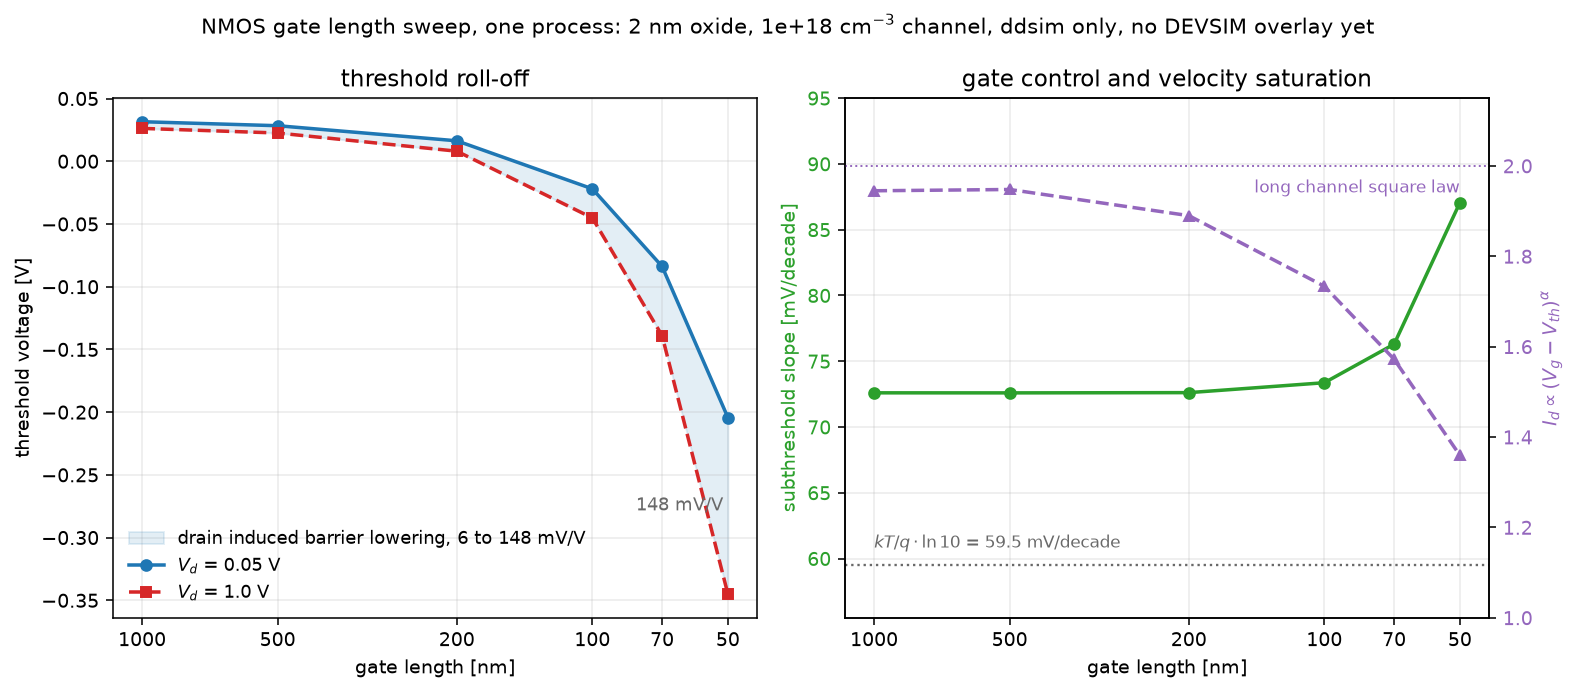
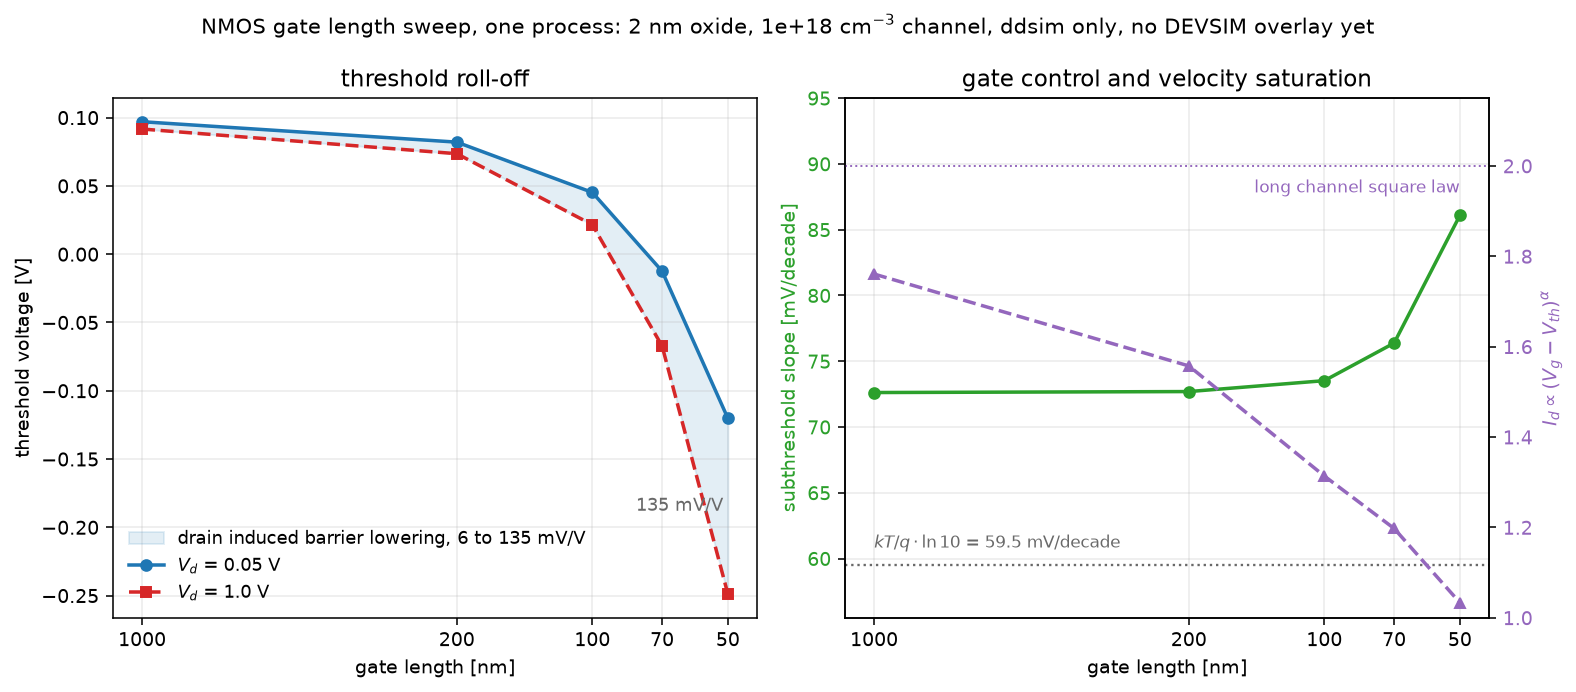
run the sweep on the mobility the phase actually asks for
I caught this by attacking my own conclusion, not by a test failing.
TransportModels.for_device defaults to the phase 2 constant mobility with
no field dependence and no surface term, gate_sweep inherits those, and I
never passed anything else. So the saturation exponent I was about to
publish as velocity saturation had been measured on a model that contains
no velocity saturation at all. Peak transconductance at 1 um was wrong by a
factor of 12.

gate_length_sweep builds its own models now and defaults to Arora inside
Lombardi inside Caughey-Thomas, which are scope items 3 and 4 of the phase.

And the exponent is attributed instead of inferred. It falls for several
reasons that all travel with gate length, so the same device is solved
twice at one bias with only Caughey-Thomas switched: 2.9 percent of current
at 1 um, 44.8 percent at 50 nm. Most of the fall from 2 is geometry, and
the README says so rather than crediting all of it to velocity saturation.

Sweep is five lengths now, on a grid fine through subthreshold and coarse
above it. Vth falls 217 mV, DIBL opens 5.6 to 135.5 mV/V, the slope lifts
72.6 to 86.1, the exponent drops 1.761 to 1.033.

diff --git a/tests/analytic/test_mosfet_rolloff_plot.py b/tests/analytic/test_mosfet_rolloff_plot.py
@@ -24,6 +24,13 @@ the 59.5 mV/decade thermal limit, which nothing thermally activated can beat at
 The first rises off its limit as the gate loses control of the barrier; the
 second falls toward 1 as carriers stop going faster when the field is raised.
 
+The models are the full Phase 5 stack: Arora doping dependent mobility inside
+Lombardi surface scattering inside Caughey-Thomas, with Fermi-Dirac statistics.
+Two of those are named in the scope of phases/PHASE-5.md as not optional, and
+the third is what the exponent is measuring, so a sweep taken on the Phase 2
+constant mobility would be measuring something else and reporting it under this
+title.
+
 DEVSIM is not on this figure yet
 --------------------------------
 phases/PHASE-5.md asks for the sweep overlaid on DEVSIM, and benchmark 9 of
@@ -58,14 +65,17 @@ from ddsim.extract.rolloff import (  # noqa: E402
 
 OUTPUT = pathlib.Path(__file__).parents[2] / "docs" / "images"
 
-GATE_LENGTHS = [1e-4, 5e-5, 2e-5, 1e-5, 7e-6, 5e-6]
+GATE_LENGTHS = [1e-4, 2e-5, 1e-5, 7e-6, 5e-6]
 """1 um down to 50 nm [cm]. The bottom is where drift-diffusion stops meaning
 anything, not where the solver stops converging."""
 
-GATE_VOLTAGES = list(np.round(np.arange(-0.5, 1.401, 0.05), 4))
-"""0.05 V throughout: the subthreshold window is two decades of current, which
-at 70 mV/decade is 140 mV wide, and the exponent is fit over 600 mV of
-overdrive at the far end."""
+GATE_VOLTAGES = list(np.round(np.arange(-0.5, 0.151, 0.05), 4)) + list(
+    np.round(np.arange(0.2, 1.401, 0.1), 4)
+)
+"""Fine through subthreshold, coarse above it. The slope is read over two
+decades of current, which at 70 mV/decade is 140 mV wide and needs 0.05 V
+steps to hold more than one point. Above threshold the curve is a power law
+and 0.1 V resolves it, and every point is a coupled 2D solve."""
 
 DRAIN_LOW = 0.05
 DRAIN_HIGH = 1.0
@@ -157,17 +167,25 @@ def test_drain_induced_barrier_lowering_widens_the_gap(sweep):
 
 def test_velocity_saturation_pulls_the_exponent_off_the_square_law(sweep):
     """Id goes as overdrive squared while the inversion charge and the
-    velocity both rise with it. Once the channel field passes the critical
-    field the velocity stops rising, one factor drops out, and the exponent
-    falls toward 1."""
+    velocity that carries it both rise with the gate. Once the channel field
+    passes the critical field the velocity stops rising, one factor drops out,
+    and the exponent falls toward 1.
+
+    It is already below 2 at 1 um, because 1 V across a 1 um channel is around
+    the critical field for electrons in silicon on its own, so this sweep never
+    contains a device that is purely square law.
+    """
     exponents = [point.saturation_exponent for point in sweep]
 
     assert exponents[0] <= SQUARE_LAW
-    assert exponents[-1] < 1.5
+    assert exponents[-1] < 1.2
     assert exponents[-1] > 1.0
+    # What the fall is made of is measured separately, in
+    # tests/analytic/test_mosfet_rolloff.py, because the exponent alone cannot
+    # tell velocity saturation from the geometry it travels with.
     # End to end, and monotone within a hundredth, for the same reason the
-    # subthreshold slope is asserted that way: 1 um and 500 nm are the same
-    # long channel device to three figures and ordering them is ordering noise.
+    # subthreshold slope is asserted that way: the long devices differ from
+    # each other by less than the extraction resolves.
     assert np.all(np.diff(exponents) < 0.01)
 
 

diff --git a/tests/analytic/test_mosfet_rolloff.py b/tests/analytic/test_mosfet_rolloff.py
@@ -26,6 +26,9 @@ from __future__ import annotations
 import numpy as np
 import pytest
 
+from ddsim.device.mosfet import DRAIN, nmos
+from ddsim.device.transport import TransportModels, solve_bias_newton
+from ddsim.extract.iv import terminal_currents
 from ddsim.extract.rolloff import (
     SHORT_CHANNEL_PROCESS,
     gate_length_sweep,
@@ -145,6 +148,61 @@ def test_the_short_device_drives_more_current(sweep):
     assert short_channel.peak_transconductance > (
         long_channel.peak_transconductance
     )
+
+
+# --------------------------------------------- attributing the exponent
+
+
+def drain_current(L_gate: float, field_dependent: bool) -> float:
+    """Id at one strong inversion bias [A/cm], ramped up to from off.
+
+    Everything except `field_dependent` is identical between the two calls, so
+    the ratio of the two answers is what Caughey-Thomas did and nothing else.
+    Lombardi is left off in both, because the question here is what the lateral
+    field model does and the surface model is a second thing moving.
+    """
+    models = TransportModels.for_device(
+        nmos(L_gate=L_gate, **SHORT_CHANNEL_PROCESS),
+        mobility="arora",
+        field_dependent=field_dependent,
+    )
+    state = None
+    for gate in (0.0, 0.4, 0.8, 1.2):
+        device = nmos(
+            L_gate=L_gate,
+            gate_voltage=gate,
+            drain_voltage=1.0,
+            **SHORT_CHANNEL_PROCESS,
+        )
+        state = solve_bias_newton(device, models=models, guess=state)
+        assert state.newton is not None and state.newton.converged
+
+    return float(terminal_currents(device, state)[DRAIN])
+
+
+def test_velocity_saturation_is_what_holds_the_short_device_back():
+    """The exponent alone cannot say why it fell, so this says it.
+
+    A falling saturation exponent is consistent with several things that
+    travel together as the gate shortens: two dimensional field effects, the
+    series resistance of the source and drain, and the threshold reference
+    moving. So instead of reading the exponent, the same device is solved twice
+    with only Caughey-Thomas switched, at one strong inversion bias.
+
+    At 1 um the two answers agree to a few percent, because 1 V spread over a
+    micron of channel is around the critical field and no further. At 50 nm the
+    same switch changes the current by more than half, because 1 V over 50 nm
+    is twenty times that field and the carriers stopped speeding up long
+    before it. Same equations, same doping, same bias: only the lateral field
+    model moved.
+    """
+    long_free = drain_current(1e-4, field_dependent=False)
+    long_saturated = drain_current(1e-4, field_dependent=True)
+    short_free = drain_current(5e-6, field_dependent=False)
+    short_saturated = drain_current(5e-6, field_dependent=True)
+
+    assert long_saturated == pytest.approx(long_free, rel=0.05)
+    assert short_saturated < 0.75 * short_free
 
 
 # ------------------------------------------------------------------ refusals

diff --git a/ddsim/extract/rolloff.py b/ddsim/extract/rolloff.py
@@ -52,6 +52,7 @@ import numpy as np
 import numpy.typing as npt
 
 from ddsim.device.mosfet import nmos
+from ddsim.device.transport import TransportModels
 from ddsim.extract.iv import IVCurve, gate_sweep
 from ddsim.extract.params import (
     dibl,
@@ -198,6 +199,9 @@ def gate_length_sweep(
     reference_current: float = REFERENCE_CURRENT,
     overdrive_window: tuple[float, float] = (0.4, 1.0),
     slope_decades: float = 2.0,
+    mobility: str = "arora",
+    field_dependent: bool = True,
+    surface: bool = True,
     step: float = 0.05,
 ) -> tuple[RollOffPoint, ...]:
     """Build one MOSFET per gate length and extract the short channel set.
@@ -227,7 +231,19 @@ def gate_length_sweep(
             is wide enough to hold several gate steps and low enough to stay
             clear of the knee, and high enough above the junction leakage floor
             that the floor cannot enter the fit.
+        mobility: low field mobility model, "arora" or "constant".
+        field_dependent: wrap it in Caughey-Thomas. This is the velocity
+            saturation, and with it off the saturation exponent is measuring
+            something else.
+        surface: add Lombardi scattering off the Si/SiO2 interface. Without it
+            the inversion layer mobility is too high by two to three times and
+            the drain current is wrong by the same factor.
         step: first continuation step between gate biases [V].
+
+    The three model arguments default to the full Phase 5 stack rather than to
+    `TransportModels.for_device`'s own defaults, which are the Phase 2 constant
+    mobility. Every one of them is named in the scope of phases/PHASE-5.md and
+    a sweep taken without them is not the sweep the phase asks for.
 
     Returns one `RollOffPoint` per gate length, in the order requested.
 
@@ -250,8 +266,18 @@ def gate_length_sweep(
         curves = {}
         for label, drain in (("linear", drain_low), ("saturated", drain_high)):
             device = nmos(L_gate=L_gate, drain_voltage=drain, **settings)
+            # Rebuilt per device: doping dependent mobility is an array over
+            # that device's edges, and the meshes differ between gate lengths.
             curves[label] = gate_sweep(
-                device, voltages=list(gate_voltages), step=step
+                device,
+                voltages=list(gate_voltages),
+                models=TransportModels.for_device(
+                    device,
+                    mobility=mobility,
+                    field_dependent=field_dependent,
+                    surface=surface,
+                ),
+                step=step,
             )
 
         V_lin, J_lin = usable_span(

diff --git a/docs/07-decisions.md b/docs/07-decisions.md
@@ -102,11 +102,13 @@ these; add a new entry instead.
 | 2026-09-09 | test_the_off_state_current_is_left_alone was replaced by a depth profile, because it was reading a current below its own Kirchhoff residual | It compared the two surface mobility transfer curves at zero gate bias and asked them to agree to 2 percent. On that mesh the drain current there is 5e-8 while the sum of the terminal currents, which Kirchhoff says is zero, is 3e-8: the quantity is a cancellation between fluxes ten decades larger and carries no information. It agreed to 0.8 percent under Boltzmann and to 59 percent under Fermi-Dirac, and neither number was about mobility. The claim it wanted, that the correction is a surface term and not a constant knocked down everywhere, is now read off the mobility itself: 0.37 of bulk on the interface row, inside a percent of bulk a third of the way into the substrate, exactly 1 in the oxide |
 | 2026-09-09 | The residual a coupled solve tests for convergence is measured row by row, and the preconditioner that divides the system stays one number per family | These were the same number until now and they cannot be. A residual is a difference of terms, so the terms of its own row are the only thing it can be resolved against, and on a 1e17 / 1e20 junction the electron flux terms span 11.5 decades between the two sides: measured against one number for the family, every row in the lightly doped side is divided by something set on the degenerate side and lands below any threshold whatever it says. Measured: a cold solve_bias_newton at 0.4 V returned converged after zero Newton steps, still sitting on the equilibrium guess, reporting 1.2208e-10 of current against the 7.3648e-4 the Gummel path gives on the same device. 6.8 decades, with no failure reported, and the residual it reported at that guess was 5.1e-12. Under the per row measure the same guess reads 9.7e-1 and the converged answer reads 7.1e-15, reached in three steps rather than zero. The preconditioner cannot follow it there: a row of dF_n/dn holds conductances of size D*face/h while its residual holds D*face/h*n, so dividing the Jacobian by the per row residual scale leaves entries of size 1/n and hands the factorization a worse conditioned matrix. Not a different step, because a diagonal left preconditioner does not change the exact solution of J dx = -F and the two steps measure identical; what changes is how much of it survives an LU in double precision. Condition numbers of the same assembly under the two weightings: on the 1e17 / 1e20 junction at 0.4 V, 1.5e15 per family against 5.9e16 per row; on the MOS capacitor at 2.6 V of accumulation, 6.1e19 against 4.2e24, five decades and past where double precision means anything. Unscaled is 8.5e19 and 3.0e19 respectively, so per family scaling buys four decades on the junction and per row scaling spends five on the capacitor. So row_weights keeps one number per family for scale_rows, residual_measure multiplies that back out and divides by the row's own terms, and the two are documented as not interchangeable |
 | 2026-09-09 | newton_solve takes how to measure a residual as an argument rather than fixing it at max abs(F) | max abs(F) is right exactly when every row is measured against the same thing, which scale_rows stopped being true of the moment the scales went per row. The alternative was to recognise the coupled system inside the generic solver, which would put device physics in ddsim/solve. Whatever the callback returns is also what lands in residual_history, so the number reported and the criterion applied cannot drift apart. The default is unchanged, so every other caller of newton_solve is bit for bit what it was |
-| 2026-09-09 | The gate length sweep holds one process fixed and varies only L_gate | Roll-off is a statement about one process drawn at different gate lengths, which is what a wafer holds. Scaling the oxide, the junction depth and the channel doping alongside the gate would also produce a Vth against Lg curve, and no part of it could be attributed to the channel getting shorter, because four things moved at once. So SHORT_CHANNEL_PROCESS is a process sized for the 50 nm end, a 2 nm oxide over a 1e18 channel with 25 nm junctions reaching 10 nm under each gate edge, and the 1 um device is that same process drawn long. The channel doping is what holds the 50 nm device out of punch-through and the encroachment is what leaves it 30 nm of metallurgical channel. Measured across 1 um to 50 nm: Vth falls 236 mV by constant current and 215 mV by linear extrapolation, DIBL rises from 5.6 to 148.2 mV/V, the subthreshold slope goes 72.6 to 87.1 mV/decade, and the saturation exponent falls from 1.945 to 1.359 |
+| 2026-09-09 | The gate length sweep holds one process fixed and varies only L_gate | Roll-off is a statement about one process drawn at different gate lengths, which is what a wafer holds. Scaling the oxide, the junction depth and the channel doping alongside the gate would also produce a Vth against Lg curve, and no part of it could be attributed to the channel getting shorter, because four things moved at once. So SHORT_CHANNEL_PROCESS is a process sized for the 50 nm end, a 2 nm oxide over a 1e18 channel with 25 nm junctions reaching 10 nm under each gate edge, and the 1 um device is that same process drawn long. The channel doping is what holds the 50 nm device out of punch-through and the encroachment is what leaves it 30 nm of metallurgical channel. Measured across 1 um to 50 nm: Vth falls 217 mV by constant current and 179 mV by linear extrapolation, DIBL rises from 5.6 to 135.5 mV/V, the subthreshold slope goes 72.6 to 86.1 mV/decade, and the saturation exponent falls from 1.761 to 1.033 |
 | 2026-09-09 | The constant current threshold target moves as 1/L across the sweep, Id = 100 nA * W / L | A shorter device drives proportionally more current at the same overdrive, so a fixed current target reads that geometry as a threshold shift and hands back roll-off the extraction put there. Dividing by L removes the trivial part. It is also the standard statement of the method, so the numbers are comparable to a data sheet |
-| 2026-09-09 | The subthreshold slope of a sweep point is read over the two decades of drain current below the constant current threshold, not over the whole curve | The bottom of a solved transfer curve is not channel current. It is the reverse leakage of the drain junction, which flows the other way and does not care what the gate is doing, on top of arithmetic noise of the same size, because the terminal current there is the difference of much larger edge fluxes. Subtracting a constant from an exponential leaves something steeper than the exponential, so the minimum slope over the whole curve lands on the step out of that floor. Measured on this sweep, the whole curve minimum reads 36.0 mV/decade at 200 nm and 38.3 at 70 nm, both below the 59.5 thermal limit, while 1 um and 100 nm read 68.5 and 71.7 and look fine. Over the windowed measure the same six devices read 72.6, 72.6, 72.6, 73.4, 76.3 and 87.1, monotone and every one above the limit. Two decades because it is wider than any reasonable gate step and still clear of the knee |
-| 2026-09-09 | The saturation exponent takes its overdrive from the linear extrapolation threshold, not from a constant current one | The square law is a strong inversion statement, and the tangent at peak transconductance is the threshold that belongs to it. A constant current threshold sits several decades lower, in the knee where the curve is still leaving its subthreshold exponential. Measured on the 1 um device: overdrive from the constant current threshold fits 3.41 to 4.20 depending on the window, on a device that is a clean square law, while overdrive from the extrapolated threshold gives 1.88 to 1.95 and barely moves with the window |
+| 2026-09-09 | The subthreshold slope of a sweep point is read over the two decades of drain current below the constant current threshold, not over the whole curve | The bottom of a solved transfer curve is not channel current. It is the reverse leakage of the drain junction, which flows the other way and does not care what the gate is doing, on top of arithmetic noise of the same size, because the terminal current there is the difference of much larger edge fluxes. Subtracting a constant from an exponential leaves something steeper than the exponential, so the minimum slope over the whole curve lands on the step out of that floor. Measured on this sweep, the whole curve minimum reads 36.0 mV/decade at 200 nm and 38.3 at 70 nm, both below the 59.5 thermal limit, while 1 um and 100 nm read 68.5 and 71.7 and look fine. Over the windowed measure the same devices read 72.6, 72.6, 73.4, 76.3 and 87.1 on constant mobility and 72.6, 72.7, 73.5, 76.4 and 86.1 on the full model stack, monotone and every one above the limit. Two decades because it is wider than any reasonable gate step and still clear of the knee |
+| 2026-09-09 | The saturation exponent takes its overdrive from the linear extrapolation threshold, not from a constant current one | The square law is a strong inversion statement, and the tangent at peak transconductance is the threshold that belongs to it. A constant current threshold sits several decades lower, in the knee where the curve is still leaving its subthreshold exponential. Measured on the 1 um device on constant mobility, where it is nearly a clean square law: overdrive from the constant current threshold fits 3.41 to 4.20 depending on the window, while overdrive from the extrapolated threshold gives 1.88 to 1.95 and barely moves with the window |
 | 2026-09-09 | nmos falls back to a uniform channel mesh when the gate is short enough that uniform is already finer than h_min_x | h_min_x is what the junction wants resolved, not a floor on cell size. Grading trades a coarse far end for a fine near one and has something to trade only while even spacing would leave cells coarser than h_min_x. At a 50 nm gate the half channel spreads its 16 columns at 1.7 nm with h_min_x asking for 2, so graded_mesh_1d refused the request as infeasible and the short end of the sweep could not be built at all |
+| 2026-09-09 | The gate length sweep builds its own transport models with Arora, Lombardi and Caughey-Thomas on, rather than taking TransportModels.for_device's defaults | for_device defaults to the Phase 2 constant mobility with no field dependence and no surface term, which is correct for it, since every result recorded before Phase 5 was taken that way. gate_sweep inherits those defaults, so the first sweep I ran was on constant mobility and its saturation exponent was measuring something that contained no velocity saturation at all. Scope items 3 and 4 of phases/PHASE-5.md name Lombardi and Caughey-Thomas as not optional. Measured, the difference is not cosmetic: peak transconductance at 1 um falls from 2.567e2 to 2.119e1 A/(cm V), a factor of 12, and the exponent at 50 nm from 1.359 to 1.033 |
+| 2026-09-09 | Velocity saturation is attributed by switching Caughey-Thomas on one device, not by reading the exponent | Several things move together as the gate shortens, so a falling exponent on its own is consistent with two dimensional field effects, source and drain series resistance, or the threshold reference moving. Solved twice at Vg = 1.2 V and Vd = 1.0 V with only the lateral field model switched and Lombardi off in both: at 1 um the drain current goes 5.2867e3 to 5.1312e3 A/cm, 2.9 percent, and at 50 nm 7.8253e4 to 4.3190e4, 44.8 percent. The exponent decomposition at 50 nm is 1.233 with neither mobility model, 1.160 with Lombardi, 1.033 with both, against 1.972 for the 1 um device with neither, so most of the fall from 2 is geometry and the two mobility models take the rest. The README says that rather than crediting all of it to velocity saturation |
 
 ## Known deviations from reference
 

diff --git a/README.md b/README.md
@@ -233,56 +233,73 @@ curves separate exactly at threshold and nowhere else.
 ## MOSFET gate length sweep
 
 The headline result of Phase 5, and the thing the whole project was built to
-produce. Six NMOS devices, one process, gate lengths from 1 um down to 50 nm.
+produce. Five NMOS devices, one process, gate lengths from 1 um down to 50 nm.
 `L_gate` is the only argument that differs between them: the 2 nm oxide, the
 1e18 channel, the 25 nm junctions and the 10 nm of lateral encroachment are the
-same in all six, because that is what roll-off means. A process is fixed once
+same in all five, because that is what roll-off means. A process is fixed once
 on a wafer and the gate length is the number a designer draws differently.
 
 ![NMOS gate length sweep](docs/images/mosfet_rolloff.png)
 
 | Lg | Vth at 0.05 V | Vth at 1.0 V | Vth, extrapolated | SS | DIBL | alpha | peak gm |
 |---|---|---|---|---|---|---|---|
-| 1 um | 0.0315 V | 0.0262 V | 0.3321 V | 72.6 mV/dec | 5.6 mV/V | 1.945 | 2.57e2 |
-| 500 nm | 0.0283 V | 0.0225 V | 0.3162 V | 72.6 mV/dec | 6.1 mV/V | 1.948 | 4.98e2 |
-| 200 nm | 0.0163 V | 0.0080 V | 0.2883 V | 72.6 mV/dec | 8.7 mV/V | 1.890 | 1.20e3 |
-| 100 nm | -0.0220 V | -0.0452 V | 0.2461 V | 73.4 mV/dec | 24.4 mV/V | 1.733 | 2.37e3 |
-| 70 nm | -0.0838 V | -0.1390 V | 0.1985 V | 76.3 mV/dec | 58.1 mV/V | 1.572 | 3.36e3 |
-| 50 nm | -0.2043 V | -0.3451 V | 0.1171 V | 87.1 mV/dec | 148.2 mV/V | 1.359 | 4.51e3 |
+| 1 um | 0.0970 V | 0.0916 V | 0.2806 V | 72.6 mV/dec | 5.6 mV/V | 1.761 | 2.12e1 |
+| 200 nm | 0.0821 V | 0.0736 V | 0.2634 V | 72.7 mV/dec | 8.9 mV/V | 1.557 | 1.10e2 |
+| 100 nm | 0.0452 V | 0.0216 V | 0.2234 V | 73.5 mV/dec | 24.9 mV/V | 1.314 | 2.17e2 |
+| 70 nm | -0.0124 V | -0.0673 V | 0.1821 V | 76.4 mV/dec | 57.7 mV/V | 1.198 | 3.20e2 |
+| 50 nm | -0.1202 V | -0.2489 V | 0.1018 V | 86.1 mV/dec | 135.5 mV/V | 1.033 | 4.34e2 |
 
 Currents are per cm of width. Threshold is the constant current method at
 Id = 100 nA * W / L, and the extrapolated column is the tangent at peak
 transconductance with the -Vd/2 correction. alpha is the power fitted to
 Id against gate overdrive in saturation.
 
+Every device is solved with the full Phase 5 model stack: Fermi-Dirac
+statistics by Joyce-Dixon, Arora doping dependent mobility inside Lombardi
+surface scattering inside Caughey-Thomas. Two of those are named in the phase
+scope as not optional and the third is what the exponent measures.
+
 ### What emerged, and why
 
-**Threshold roll-off, 236 mV between 1 um and 50 nm.** Nothing in the solver
-knows what a short channel is. The gate has to deplete the channel charge
-underneath it, and near either end of a short channel some of that charge is
-already depleted by the source or drain junction, which the gate then gets for
-free. That sharing is a two dimensional Poisson solution and nothing else, and
-it grows as the two junctions approach each other. The doping did not move
-between these six devices.
+**Threshold roll-off, 217 mV by constant current between 1 um and 50 nm, 179 mV
+by linear extrapolation.** Nothing in the solver knows what a short channel is.
+The gate has to deplete the channel charge underneath it, and near either end
+of a short channel some of that charge is already depleted by the source or
+drain junction, which the gate then gets for free. That sharing is a two
+dimensional Poisson solution and nothing else, and it grows as the two
+junctions approach each other. The doping did not move between these five
+devices.
 
-**DIBL, 5.6 to 148 mV/V.** The gap between the two curves on the left panel.
+**DIBL, 5.6 to 135.5 mV/V.** The gap between the two curves on the left panel.
 Raising the drain to 1 V pulls the source barrier down through the channel, so
 less gate is needed to turn the device on. At 1 um the drain is too far away to
 reach and the residual 5.6 mV/V is what a drain a micron away still does.
 
-**Subthreshold slope off its limit, 72.6 to 87.1 mV/decade.** Every value is
+**Subthreshold slope off its limit, 72.6 to 86.1 mV/decade.** Every value is
 above 59.5, which is kT/q ln 10 at 300 K and which no thermally activated
 current can beat. It sits flat while the gate owns the barrier and lifts once
 the drain starts sharing control. 72.6 rather than 59.5 at the long end is the
 body factor: the gate moves the surface potential by less than the bias applied
 to it, because the depletion capacitance divides with the oxide capacitance.
 
-**Velocity saturation, alpha from 1.945 to 1.359.** A long channel MOSFET
+**Velocity saturation, alpha from 1.761 to 1.033.** A long channel MOSFET
 saturates as the square of overdrive, because the inversion charge and the
-velocity that carries it both rise with the gate. Caughey-Thomas takes the
-velocity out of that product once the channel field passes the critical field,
-and the exponent falls toward 1. Nothing anywhere contains a 2 or a 1: both
-ends are fitted off the solved curves.
+velocity that carries it both rise with the gate. Once the channel field passes
+the critical field the velocity stops rising and one factor drops out.
+
+The exponent alone cannot prove that is the cause, because several things move
+together as the gate shortens, so it is measured directly instead. The same
+device is solved twice at Vg = 1.2 V and Vd = 1.0 V with only Caughey-Thomas
+switched. At 1 um the current changes by 2.9 percent. At 50 nm it changes by
+44.8 percent, because 1 V across 50 nm is twenty times the critical field.
+Same equations, same doping, same bias.
+
+Turning the models off one at a time is also how much of the exponent belongs
+to what. At 50 nm alpha reads 1.233 with neither surface nor field dependent
+mobility, 1.160 with Lombardi added, and 1.033 with Caughey-Thomas on top. The
+1 um device with the same models off reads 1.972. So most of the fall from 2 is
+the geometry, and the two mobility models take the rest, which is worth saying
+plainly rather than crediting the whole of it to velocity saturation.
 
 The sweep, the process and the extraction all live in `ddsim/extract/rolloff.py`,
 and the figure is produced by `tests/analytic/test_mosfet_rolloff_plot.py`,
